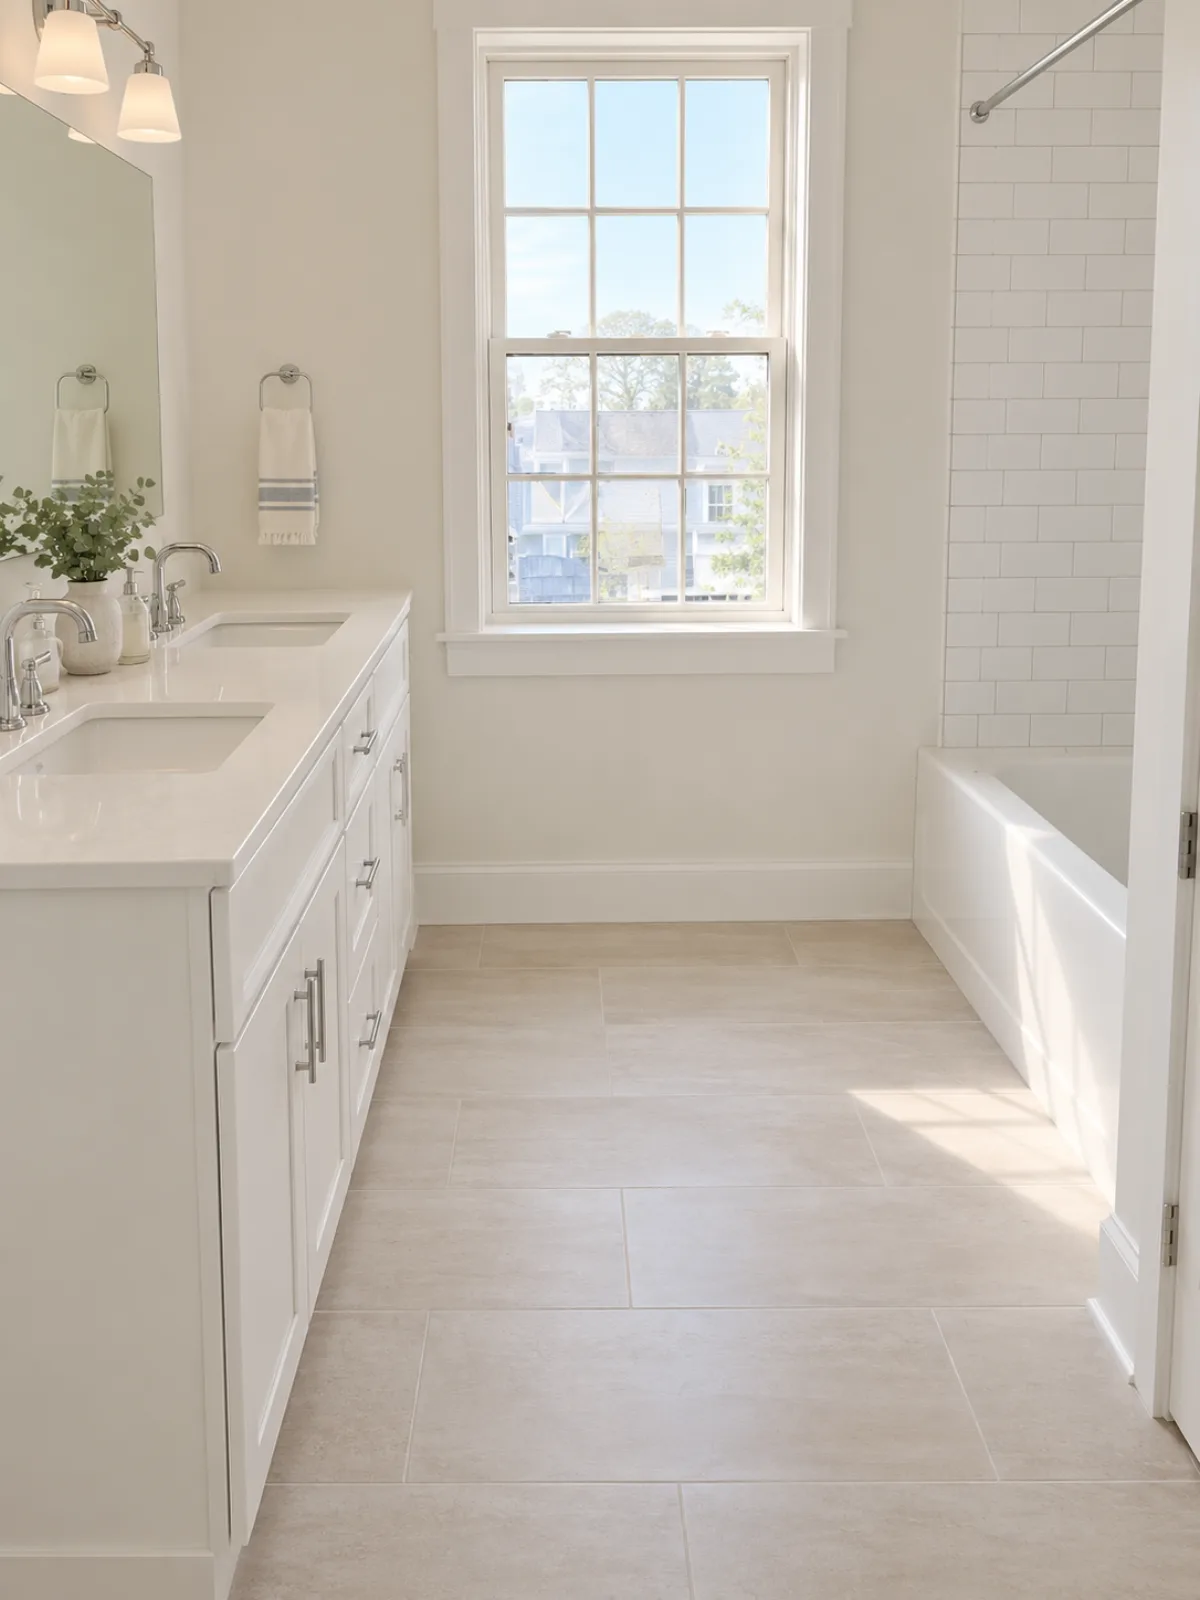
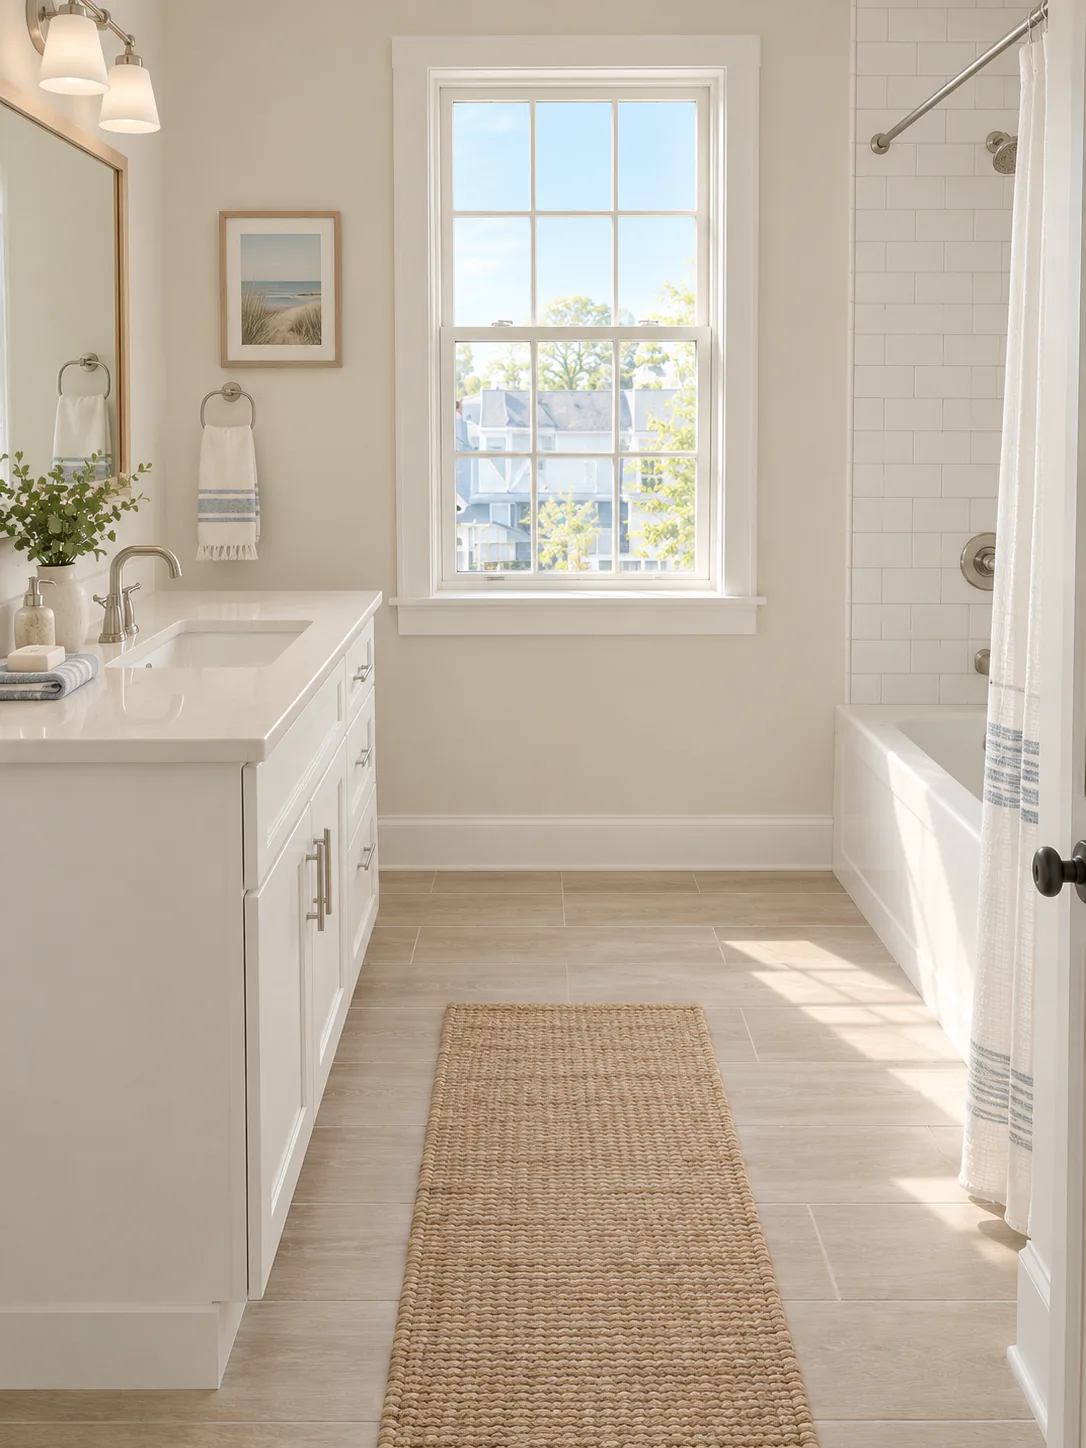
Replace 2BR bath photo with single-vanity Bright Coastal Bathroom

diff --git a/toombs-court-leasing/index.html b/toombs-court-leasing/index.html
@@ -147,7 +147,7 @@
         <div class="layout-example__head">
           <span class="eyebrow">A 2 Bedroom Layout</span>
           <h3>Inside one of the <em>2BR homes.</em></h3>
-          <p class="lede">The floor plan below is the 2-bedroom layout shown in the Gallery — the kitchen, living room, king bedroom, and double-vanity bath finishes there are all from this plan.</p>
+          <p class="lede">The floor plan below is the 2-bedroom layout shown in the Gallery — the kitchen, living room, king bedroom, and bath finishes there are all from this plan.</p>
         </div>
         <div class="layout-example__body">
           <img class="layout-example__plan" src="images/layout-2br.webp" alt="2 Bedroom floor plan — living room, kitchen, dining area, two bedrooms, and two baths" loading="lazy">
@@ -160,8 +160,8 @@
               <img src="images/interior-living-2br.webp" loading="lazy" alt="Living room in the Toombs Court 2BR layout">
               <span>Living Room</span>
             </button>
-            <button data-full="images/interior-bath-2br.webp" data-caption="Bright Coastal Double-Vanity Bathroom — 2BR Layout">
-              <img src="images/interior-bath-2br.webp" loading="lazy" alt="Double-vanity bathroom in the Toombs Court 2BR layout">
+            <button data-full="images/interior-bath-2br.webp" data-caption="Bright Coastal Bathroom — 2BR Layout">
+              <img src="images/interior-bath-2br.webp" loading="lazy" alt="Bright coastal bathroom with single vanity, window, and tub-shower in the Toombs Court 2BR layout">
               <span>Bath</span>
             </button>
             <button data-full="images/interior-bedroom-2br.webp" data-caption="Coastal King Bedroom — 2BR Layout">
@@ -227,8 +227,8 @@
         <button data-full="images/interior-living-2br.webp" data-caption="Coastal Living Room Retreat — 2BR Layout">
           <img src="images/interior-living-2br.webp" loading="lazy" alt="Coastal-style living room with blue accent pillows in the Toombs Court 2BR layout">
         </button>
-        <button data-full="images/interior-bath-2br.webp" data-caption="Bright Coastal Double-Vanity Bathroom — 2BR Layout">
-          <img src="images/interior-bath-2br.webp" loading="lazy" alt="Bright bathroom with double vanity and tiled shower in the Toombs Court 2BR layout">
+        <button data-full="images/interior-bath-2br.webp" data-caption="Bright Coastal Bathroom — 2BR Layout">
+          <img src="images/interior-bath-2br.webp" loading="lazy" alt="Bright coastal bathroom with single vanity, window, and white subway-tile tub-shower in the Toombs Court 2BR layout">
         </button>
         <button data-full="images/interior-bedroom-2br.webp" data-caption="Coastal King Bedroom — 2BR Layout">
           <img src="images/interior-bedroom-2br-sm.webp" loading="lazy" alt="Coastal king bedroom with blue linen bedding and oak furniture in the Toombs Court 2BR layout" style="object-position: center 65%;">
